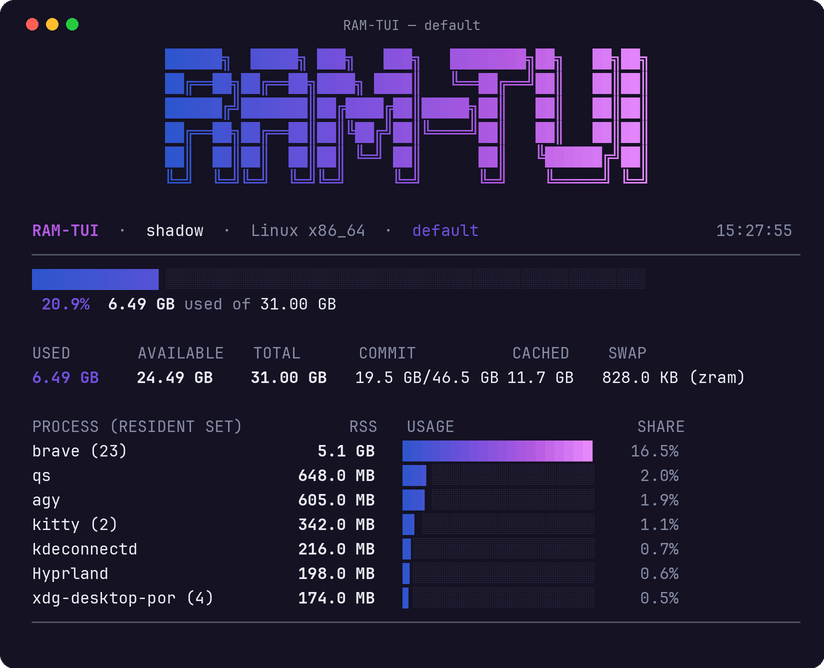
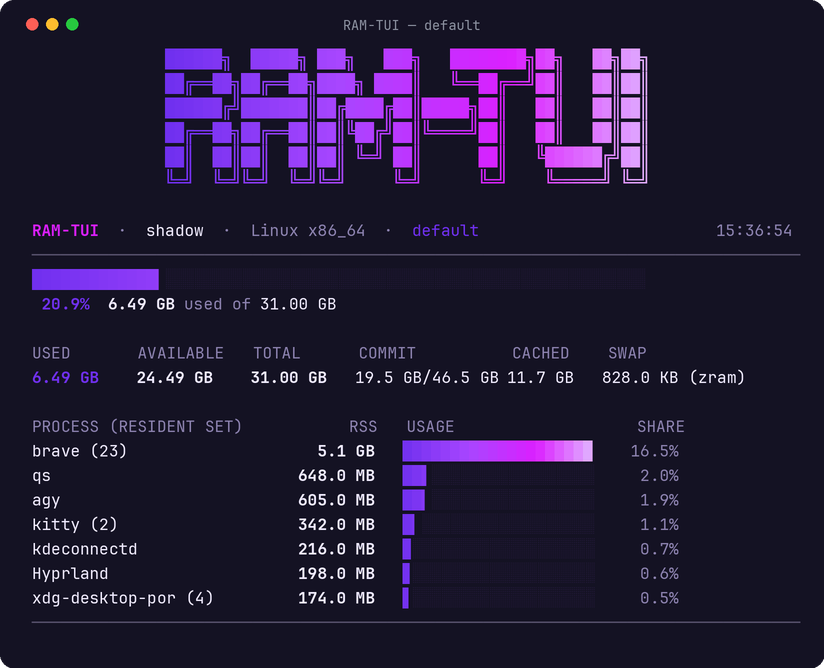
feat(theme): authentic multi-stop TrueColor palettes and gradients across all 13 themes

diff --git a/README.md b/README.md
@@ -307,18 +307,18 @@ ram --json --once | jq '.memory'
 
 | Theme | Preview | Gradient Spectrum |
 |:---|:---:|:---|
-| **`catppuccin`** | <img src="assets/themes/catppuccin.png" width="400" alt="Catppuccin theme preview" /> | Sapphire (`#74C7EC`) → Teal (`#94E2D5`) → Mauve (`#CBA6F7`) → Maroon (`#F38BA8`) |
-| **`dracula`** | <img src="assets/themes/dracula.png" width="400" alt="Dracula theme preview" /> | Cyan (`#8BE9FD`) → Purple (`#BD93F9`) → Pink (`#FF79C6`) → Red (`#FF5555`) |
-| **`tokyo-night`** | <img src="assets/themes/tokyo-night.png" width="400" alt="Tokyo Night theme preview" /> | Storm Cyan (`#7DCFFF`) → Tokyo Blue (`#7AA2F7`) → Magenta (`#BB9AF7`) → Red (`#F7768E`) |
-| **`nord`** | <img src="assets/themes/nord.png" width="400" alt="Nord theme preview" /> | Frost Cyan (`#88C0D0`) → Frost Blue (`#81A1C1`) → Yellow (`#EBCB8B`) → Aurora Red (`#BF616A`) |
-| **`gruvbox`** | <img src="assets/themes/gruvbox.png" width="400" alt="Gruvbox theme preview" /> | Aqua (`#8EC07C`) → Green (`#B8BB26`) → Warm Yellow (`#FABD2F`) → Orange Red (`#FB4934`) |
-| **`cyberpunk`** | <img src="assets/themes/cyberpunk.png" width="400" alt="Cyberpunk theme preview" /> | Neon Cyan (`#00E5FF`) → Electric Yellow (`#F4FF00`) → Hot Pink (`#FF2A9D`) → Crimson (`#FF003C`) |
-| **`rose-pine`** | <img src="assets/themes/rose-pine.png" width="400" alt="Rose Pine theme preview" /> | Foam (`#9CCFD8`) → Iris (`#C4A7E7`) → Gold (`#F6C177`) → Love Red (`#EB6F92`) |
-| **`everforest`** | <img src="assets/themes/everforest.png" width="400" alt="Everforest theme preview" /> | Forest Green (`#A7C080`) → Sage (`#83C092`) → Yellow (`#DBBC7F`) → Red (`#E67E80`) |
-| **`kanagawa`** | <img src="assets/themes/kanagawa.png" width="400" alt="Kanagawa theme preview" /> | Wave Blue (`#7E9CD8`) → Spring Green (`#98BB6C`) → Sakura Pink (`#D27E99`) → Autumn Red (`#C34043`) |
-| **`monokai`** | <img src="assets/themes/monokai.png" width="400" alt="Monokai theme preview" /> | Cyan (`#66D9EF`) → Bright Green (`#A6E22E`) → Yellow (`#E6DB74`) → Magenta (`#F92672`) |
-| **`solarized`** | <img src="assets/themes/solarized.png" width="400" alt="Solarized theme preview" /> | Cyan (`#2AA198`) → Blue (`#268BD2`) → Warm Yellow (`#B58900`) → Red (`#DC322F`) |
-| **`default`** | <img src="assets/themes/default.png" width="400" alt="Default theme preview" /> | Dark Blue (`#2D55CD`) → Royal Violet (`#7350DC`) → Midnight Purple (`#B45AE1`) → Neon Lavender (`#EB8CFF`) |
+| **`default`** | <img src="assets/themes/default.png" width="400" alt="Default theme preview" /> | Electric Violet (`#7030EF`) → Neon Purple (`#A846FF`) → Vivid Fuchsia (`#DB1FFF`) → Light Lilac (`#E0B3FF`) |
+| **`catppuccin`** | <img src="assets/themes/catppuccin.png" width="400" alt="Catppuccin theme preview" /> | Sapphire (`#74C7EC`) → Teal (`#94E2D5`) → Mauve (`#CBA6F7`) → Pink (`#F5C2E7`) → Maroon (`#F38BA8`) |
+| **`dracula`** | <img src="assets/themes/dracula.png" width="400" alt="Dracula theme preview" /> | Cyan (`#8BE9FD`) → Purple (`#BD93F9`) → Pink (`#FF79C6`) → Orange (`#FFB86C`) → Red (`#FF5555`) |
+| **`tokyo-night`** | <img src="assets/themes/tokyo-night.png" width="400" alt="Tokyo Night theme preview" /> | Storm Cyan (`#7DCFFF`) → Tokyo Blue (`#7AA2F7`) → Magenta (`#BB9AF7`) → Warm Sunset (`#FF9E64`) → Red (`#F7768E`) |
+| **`nord`** | <img src="assets/themes/nord.png" width="400" alt="Nord theme preview" /> | Aurora Teal (`#8FBCBB`) → Frost Cyan (`#88C0D0`) → Frost Blue (`#81A1C1`) → Aurora Purple (`#B48EAD`) → Aurora Red (`#BF616A`) |
+| **`gruvbox`** | <img src="assets/themes/gruvbox.png" width="400" alt="Gruvbox theme preview" /> | Aqua (`#8EC07C`) → Green (`#B8BB26`) → Warm Yellow (`#FABD2F`) → Orange (`#FE8019`) → Red (`#FB4934`) |
+| **`cyberpunk`** | <img src="assets/themes/cyberpunk.png" width="400" alt="Cyberpunk theme preview" /> | Neon Cyan (`#00F0FF`) → Electric Yellow (`#FEE801`) → Hot Pink (`#FF007F`) → Neon Purple (`#9900FF`) → Crimson (`#FF003C`) |
+| **`rose-pine`** | <img src="assets/themes/rose-pine.png" width="400" alt="Rose Pine theme preview" /> | Foam (`#9CCFD8`) → Iris (`#C4A7E7`) → Gold (`#F6C177`) → Rose (`#EBBCBA`) → Love Red (`#EB6F92`) |
+| **`everforest`** | <img src="assets/themes/everforest.png" width="400" alt="Everforest theme preview" /> | Aqua (`#87C095`) → Forest Green (`#A7C080`) → Warm Yellow (`#DBBC7F`) → Orange (`#E69875`) → Soft Red (`#E67E80`) |
+| **`kanagawa`** | <img src="assets/themes/kanagawa.png" width="400" alt="Kanagawa theme preview" /> | Wave Blue (`#7E9CD8`) → Spring Green (`#98BB6C`) → Boat Yellow (`#E6C384`) → Sakura Pink (`#D27E99`) → Autumn Red (`#C34043`) |
+| **`monokai`** | <img src="assets/themes/monokai.png" width="400" alt="Monokai theme preview" /> | Cyan (`#78DCE8`) → Bright Green (`#A9DC76`) → Yellow (`#FFD866`) → Orange (`#FC9867`) → Magenta Pink (`#FF6188`) |
+| **`solarized`** | <img src="assets/themes/solarized.png" width="400" alt="Solarized theme preview" /> | Cyan (`#2AA198`) → Blue (`#268BD2`) → Violet (`#6C71C4`) → Yellow (`#B58900`) → Red (`#DC322F`) |
 | **`monochrome`** | <img src="assets/themes/monochrome.png" width="400" alt="Monochrome theme preview" /> | Pure ANSI-free grayscale (auto-selected when `NO_COLOR` is set) |
 
 ---
